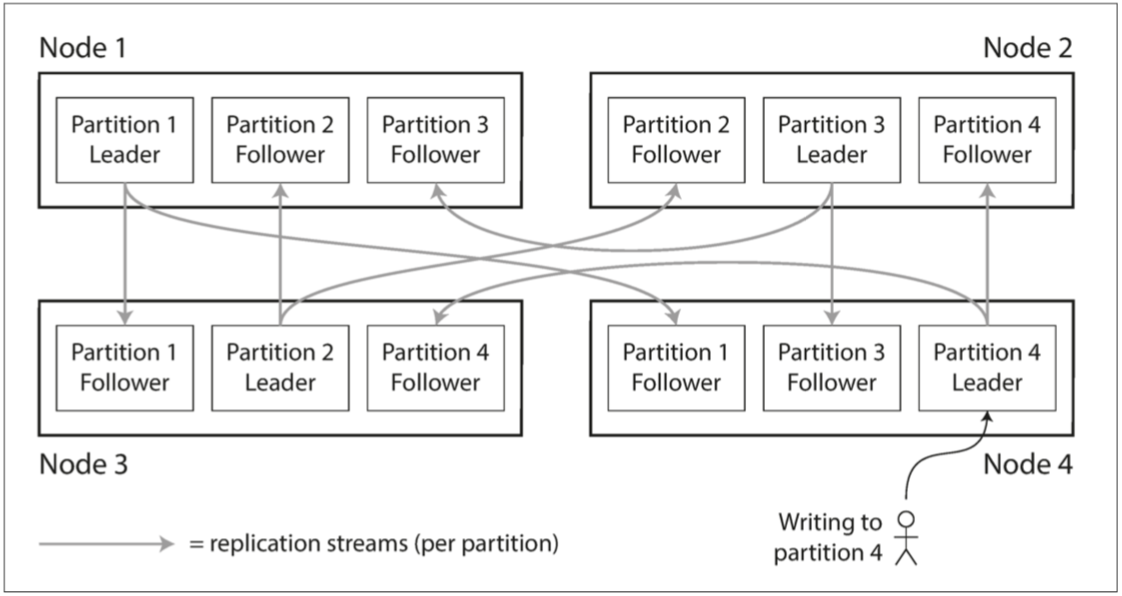
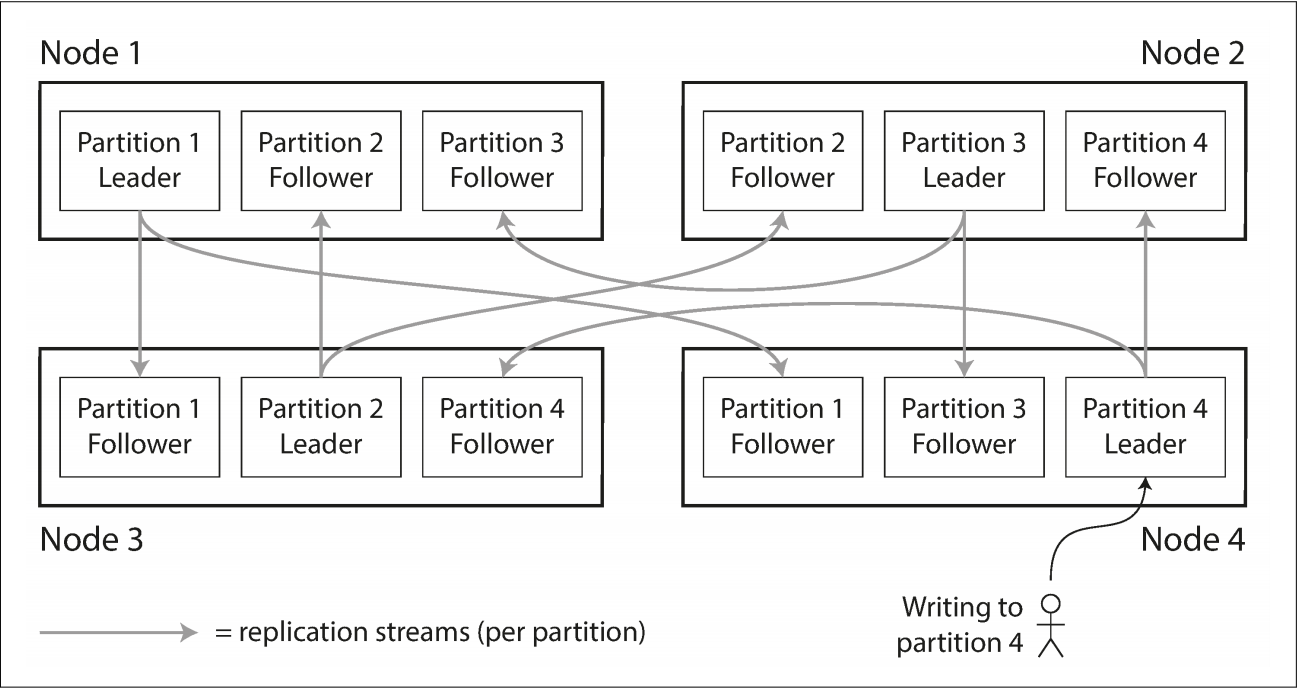
第6章翻译

diff --git a/part2/chapter6.md b/part2/chapter6.md
@@ -23,15 +23,55 @@
 
 对于在单一分区上的查询操作，每个节点都可以独立的在它所在的分区上完成查询操作，所以，可以通过增加更多的节点来提高查询吞吐量。大型复杂的查询操作也可以把他们看作隐性的并行在不同的节点之上，尽管这看上去会变得复杂一些。
 
-
+分区数据库是在19世纪80年代开创的，像Teradata 和 Tandem NonStop SQL，以及最近被提及到的 NoSql数据库和基于Hadoop的数据库都属于这类数据库。一些系统的设计目的是事务处理，一些是数据分析（详见 [事务处理或分析](#part3.md)）：数据库对于这两种不同的处理方式会有不同的处理方式，但是分区对于上述两种情况都适用。
 
 ## **分区与副本**
+
+分区通常和副本结合来使用，以便能够将每个副本的数据存储到多个节点上。这也就意味着，即使每条记录只属于一个分区，它仍然能够存储在不同的服务节点上，以此来达到故障转移的目的。
+
+一个节点上通常存储多于一个分区的数据，如果使用的是「主-从复制」模式，那么分区和副本结合的方式就如同[<font color="#A7535A">**图6-1**</font>](#figure6-1) 所示。每个分区的领导者副本都分别被分配到了一个的节点上，而它的追随者副本则被分配到其它的节点上。每个分区都包括一些分区的领导者副本以及其它分区的追随者副本。
+
+所有我们在[第五章](#chapter5.md)讨论的关于数据库副本的理论都适用于这里的分区副本。但是分区方案的选择是不依赖于副本方案的，所以在本章中我们要忽略掉之前副本机制的干扰，尽量让事情变得简洁。
+
+![chapter6-1](../img/figure6-1.png)
+
+<a id="figure6-1"><font color="#A7535A">**图6-1.**</font></a> 副本和分区的组合。每个节点的一个分区分别充当其它节点追随者分区的领导者。
 
 
 
 ## **键-值数据分区**
 
+假设现在你想要把一大批数据进行分区。那么你怎样确定哪些记录存放到哪些节点上呢？
+
+我们进行分区的目标就在于能够均匀的分布数据以此来实现查询操作均衡的负载到各个节点上。如果每个节点都均匀的分布一部分数据，理论上10个节点会是单个节点承载读写吞吐量的10倍（这里忽略复制的消耗）。
+
+如果分区不均衡，则一些分区的数据会多于其它分区或者一些分区的查询量多于其它分区，我们称之为**偏斜（*skewed*）**。**偏斜**的出现会使得分区的效果大打折扣。极端情况下，所有的负载都命中同一个分区，那么我们10个分区中的9个就是无意义的，所以你的性能瓶颈就集中在这个单一的分区。像这种负载比率较高的分区我们称之为**热点（*hot spot*）**。
+
+解决**热点**问题最简单的方法就是我们把记录随机的分配到不同的节点上。这样我们就会将数据十分均匀的分发到各个节点上，但是这样做有一个弊端：当你试图读取特定的记录时，就没有办法确定这条记录具体存储在哪个节点上，导致我们必须查询所有的节点才能将该数据查出来。
+
+我们可以优化一下，假设我们现在的数据是一个总是通过主键来索引数据的简单的**键-值**数据模型。例如，一本老式的纸质百科全书，你可以通过标题来查找内容；当把所有的标题按照字母顺序排列好后，你就可以快速的找到你想要查询的条目内容。
+
 ### **基于key值区间分区**
+
+
+
+![figure6-2](../img/figure6-2.png)
+
+
+
+
+
+
+
+
+
+
+
+
+
+
+
+
 
 ### **基于key的哈希值分区**
 
